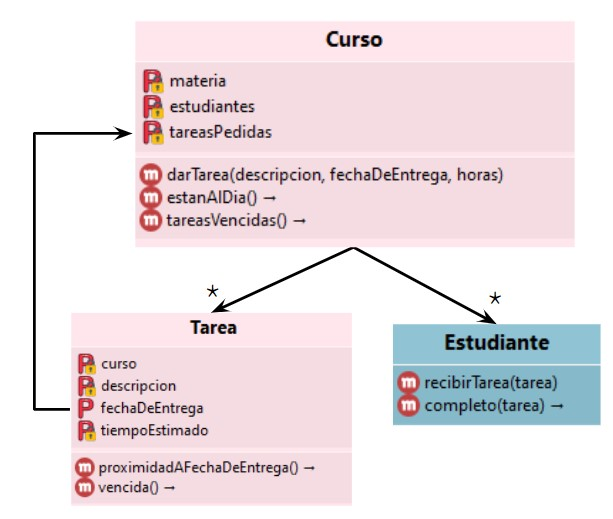
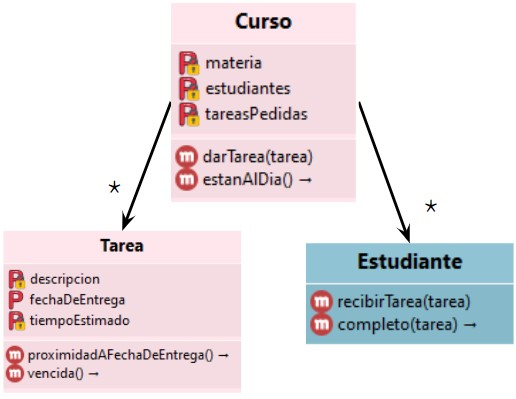
Ajustes pre clase

diff --git a/src/clase07/README.md b/src/clase07/README.md
@@ -6,19 +6,17 @@ Tenemos modelados a los cursos de una carrera universitaria, los cuales son capa
 
 También pueden decir qué estudiantes están al día (quienes completaron todas las tareas vencidas).
 
-La fecha de entrega de una tarea podría cambiar luego de pedirla.
-
 ![Diagrama inicial](cursos.jpg)
 
-> No nos interesa cómo se implementan todavía los estudiantes, sólo el uso esperado.
+> No sabemos cómo se implementan los estudiantes todavía, sólo el uso que les da el curso.
 
 ## Estudiantes y tareas
 
 Cuando un estudiante recibe una tarea, no la completa inmediatamente.
 
-Eventualmente un estudiante puede ponerse a estudiar, para trabajar sobre alguna de las tareas que tenga pendientes.
+Eventualmente un estudiante puede ponerse a **estudiar**, para trabajar sobre alguna de las tareas que tenga pendientes.
 
-La forma de elegir la tarea a realizar no es igual para todos los estudiantes. Ampliaremos… 
+La forma de **elegir la tarea** a realizar no es igual para todos los estudiantes. *Ampliaremos…*
 
 > Por simplicidad, luego de una sesión de estudio, se completa la tarea elegida.
 
@@ -33,27 +31,23 @@ Ejemplo de uso:
 ```wollok
 >>> caro.recibirTarea(tarea1)
 >>> caro.recibirTarea(tarea2)
->>> leo.recibirTarea(tarea1)
+>>> leo.recibirTarea(tarea2)
 ```
 
 - Caro estudia, luego de lo cual elige una tarea y la completa. En el ejemplo, la tarea elegida es la misma que recibió Leo. Sólo Caro la completó.
 ```wollok
 >>> caro.estudiar()
 >>> caro.completo(tarea1)
-true
->>> leo.completo(tarea1)
 false
-```
-
-- Caro no completó todas sus tareas, sólo la elegida. 
-```wollok
 >>> caro.completo(tarea2)
+true
+>>> leo.completo(tarea2)
 false
 ```
 
 - Tampoco debería ser cierto que Leo haya completado una tarea si no la recibió en primer lugar.
 ```wollok
->>> leo.completo(tarea2)
+>>> leo.completo(tarea1)
 false
 ```
 
@@ -86,7 +80,7 @@ Queremos hacer que Leo y Caro puedan volverse prudentes / hijos del rigor en cua
 
 Necesitamos agregar formas nuevas de elegir tareas:
 - Prioritaria: se debe poder indicar a qué materia se le dará prioridad, y se elige trabajar sobre cualquier tarea, prefiriendo las de esa materia si las hay.
-- Remadora: se elige una tarea del curso que el estudiante tenga más colgado (suma de tiempo de tareas pendientes / suma de tiempo de tareas recibidas para ese curso)
+- Remadora: se elige una tarea del curso que el estudiante tenga más colgado (cantidad de tareas completas - cantidad de tareas pendientes para ese curso).
 
 ## Administración de tiempo
 
@@ -104,4 +98,4 @@ Nos enteramos que los estudiantes pueden ponerse en modo complecionista, que imp
 
 Incorporar este agregado de modo que sea compatible con lo desarrollado anteriormente, sin repetir lógica.
 
-Nota: un estudiante complecionista puede ser también distraído o enfocado. Alguien prudente podría volverse complecionista, y eventualmente volver a elegir tareas de forma prudente o en base a cualquiera de los criterios desarrollados anteriormente.
+Nota: un estudiante complecionista puede ser también distraído o enfocado. Alguien que elige tareas de forma prudente podría volverse complecionista, y eventualmente volver a elegir tareas de forma prudente o en base a cualquiera de los criterios desarrollados anteriormente.
